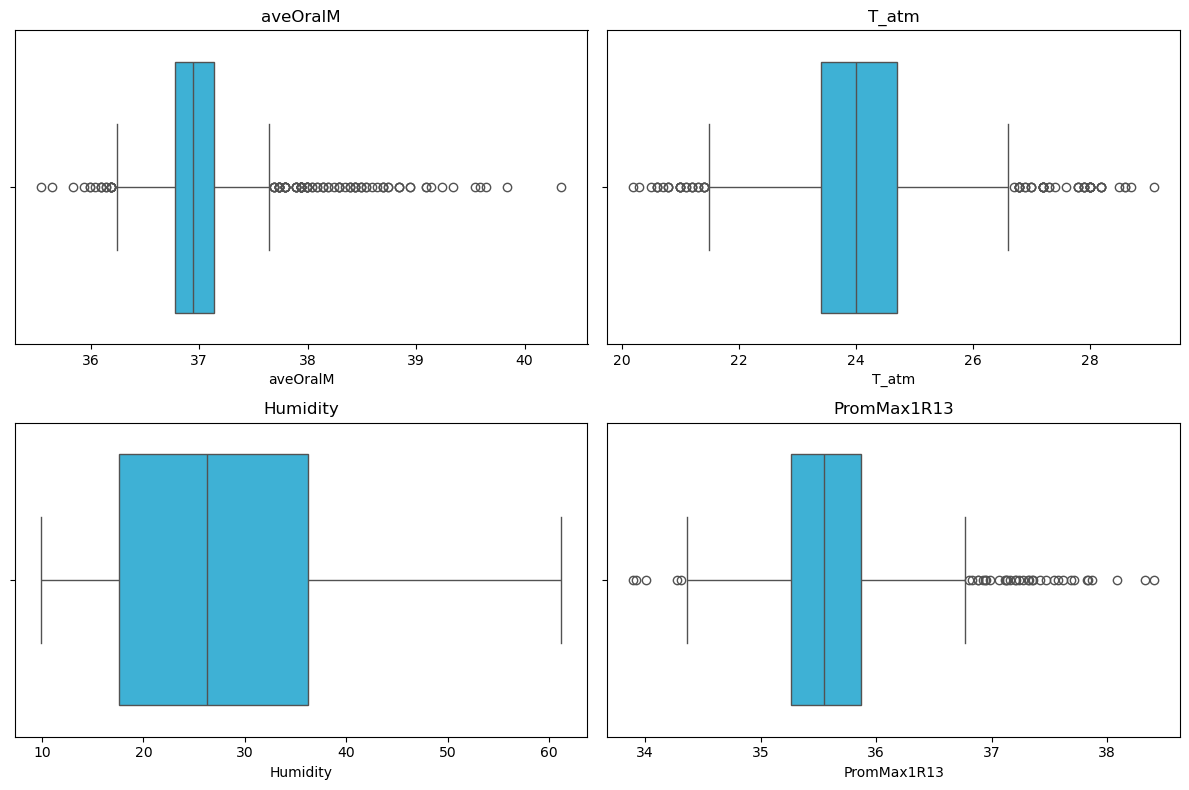
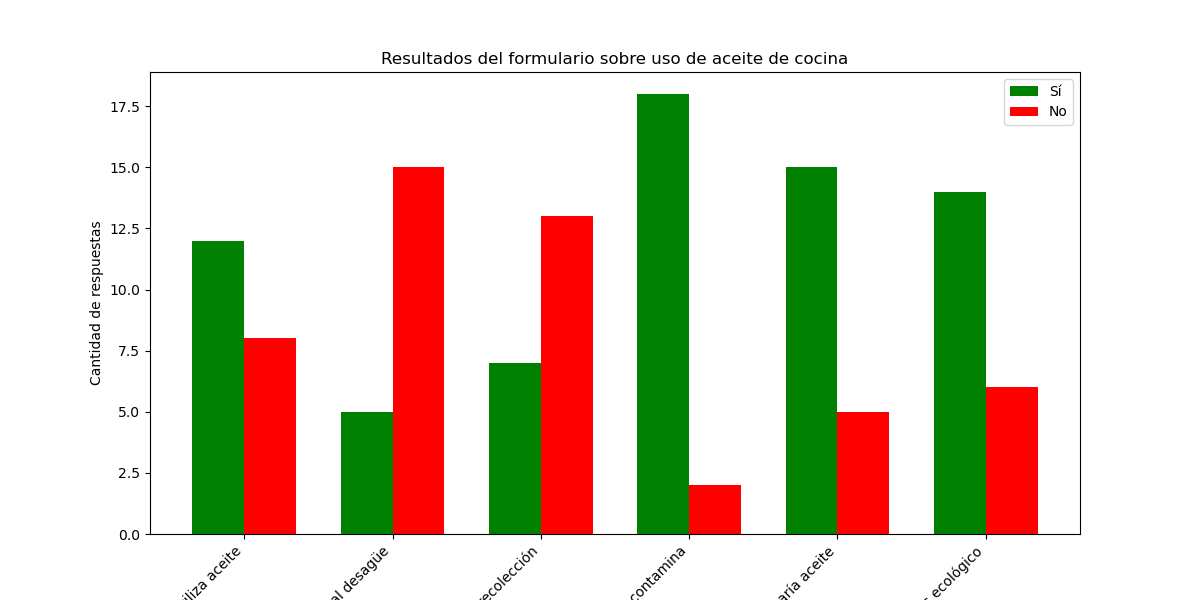
correciones2

diff --git a/py/grafico_barras.py b/py/grafico_barras.py
@@ -35,7 +35,7 @@ x2, y2, z2= x[mid:], y_2[mid:], y_2[mid:]
 width = 0.35
 # Primer gráficofig, 
 
-fig, ax = plt.subplots(figsize=(12, 6))
+fig, ax = plt.subplots(figsize=(12, 11))
 barras_si = ax.bar(x1 - width/2, y1, width, label='Sí', color='green')
 barras_no = ax.bar(x1 + width/2, z1, width, label='No', color='red')
 ax.set_ylabel('Cantidad de respuestas')
@@ -46,7 +46,7 @@ ax.legend()
 plt.savefig('output2.png')
 plt.close()
 
-fig, ax2 = plt.subplots(figsize=(12, 6))
+fig, ax2 = plt.subplots(figsize=(12, 11))
 barras_si = ax2.bar(x2 - width/2, y2, width, label='Sí', color='green')
 barras_no = ax2.bar(x2 + width/2, z2, width, label='No', color='red')
 ax2.set_ylabel('Cantidad de respuestas')
